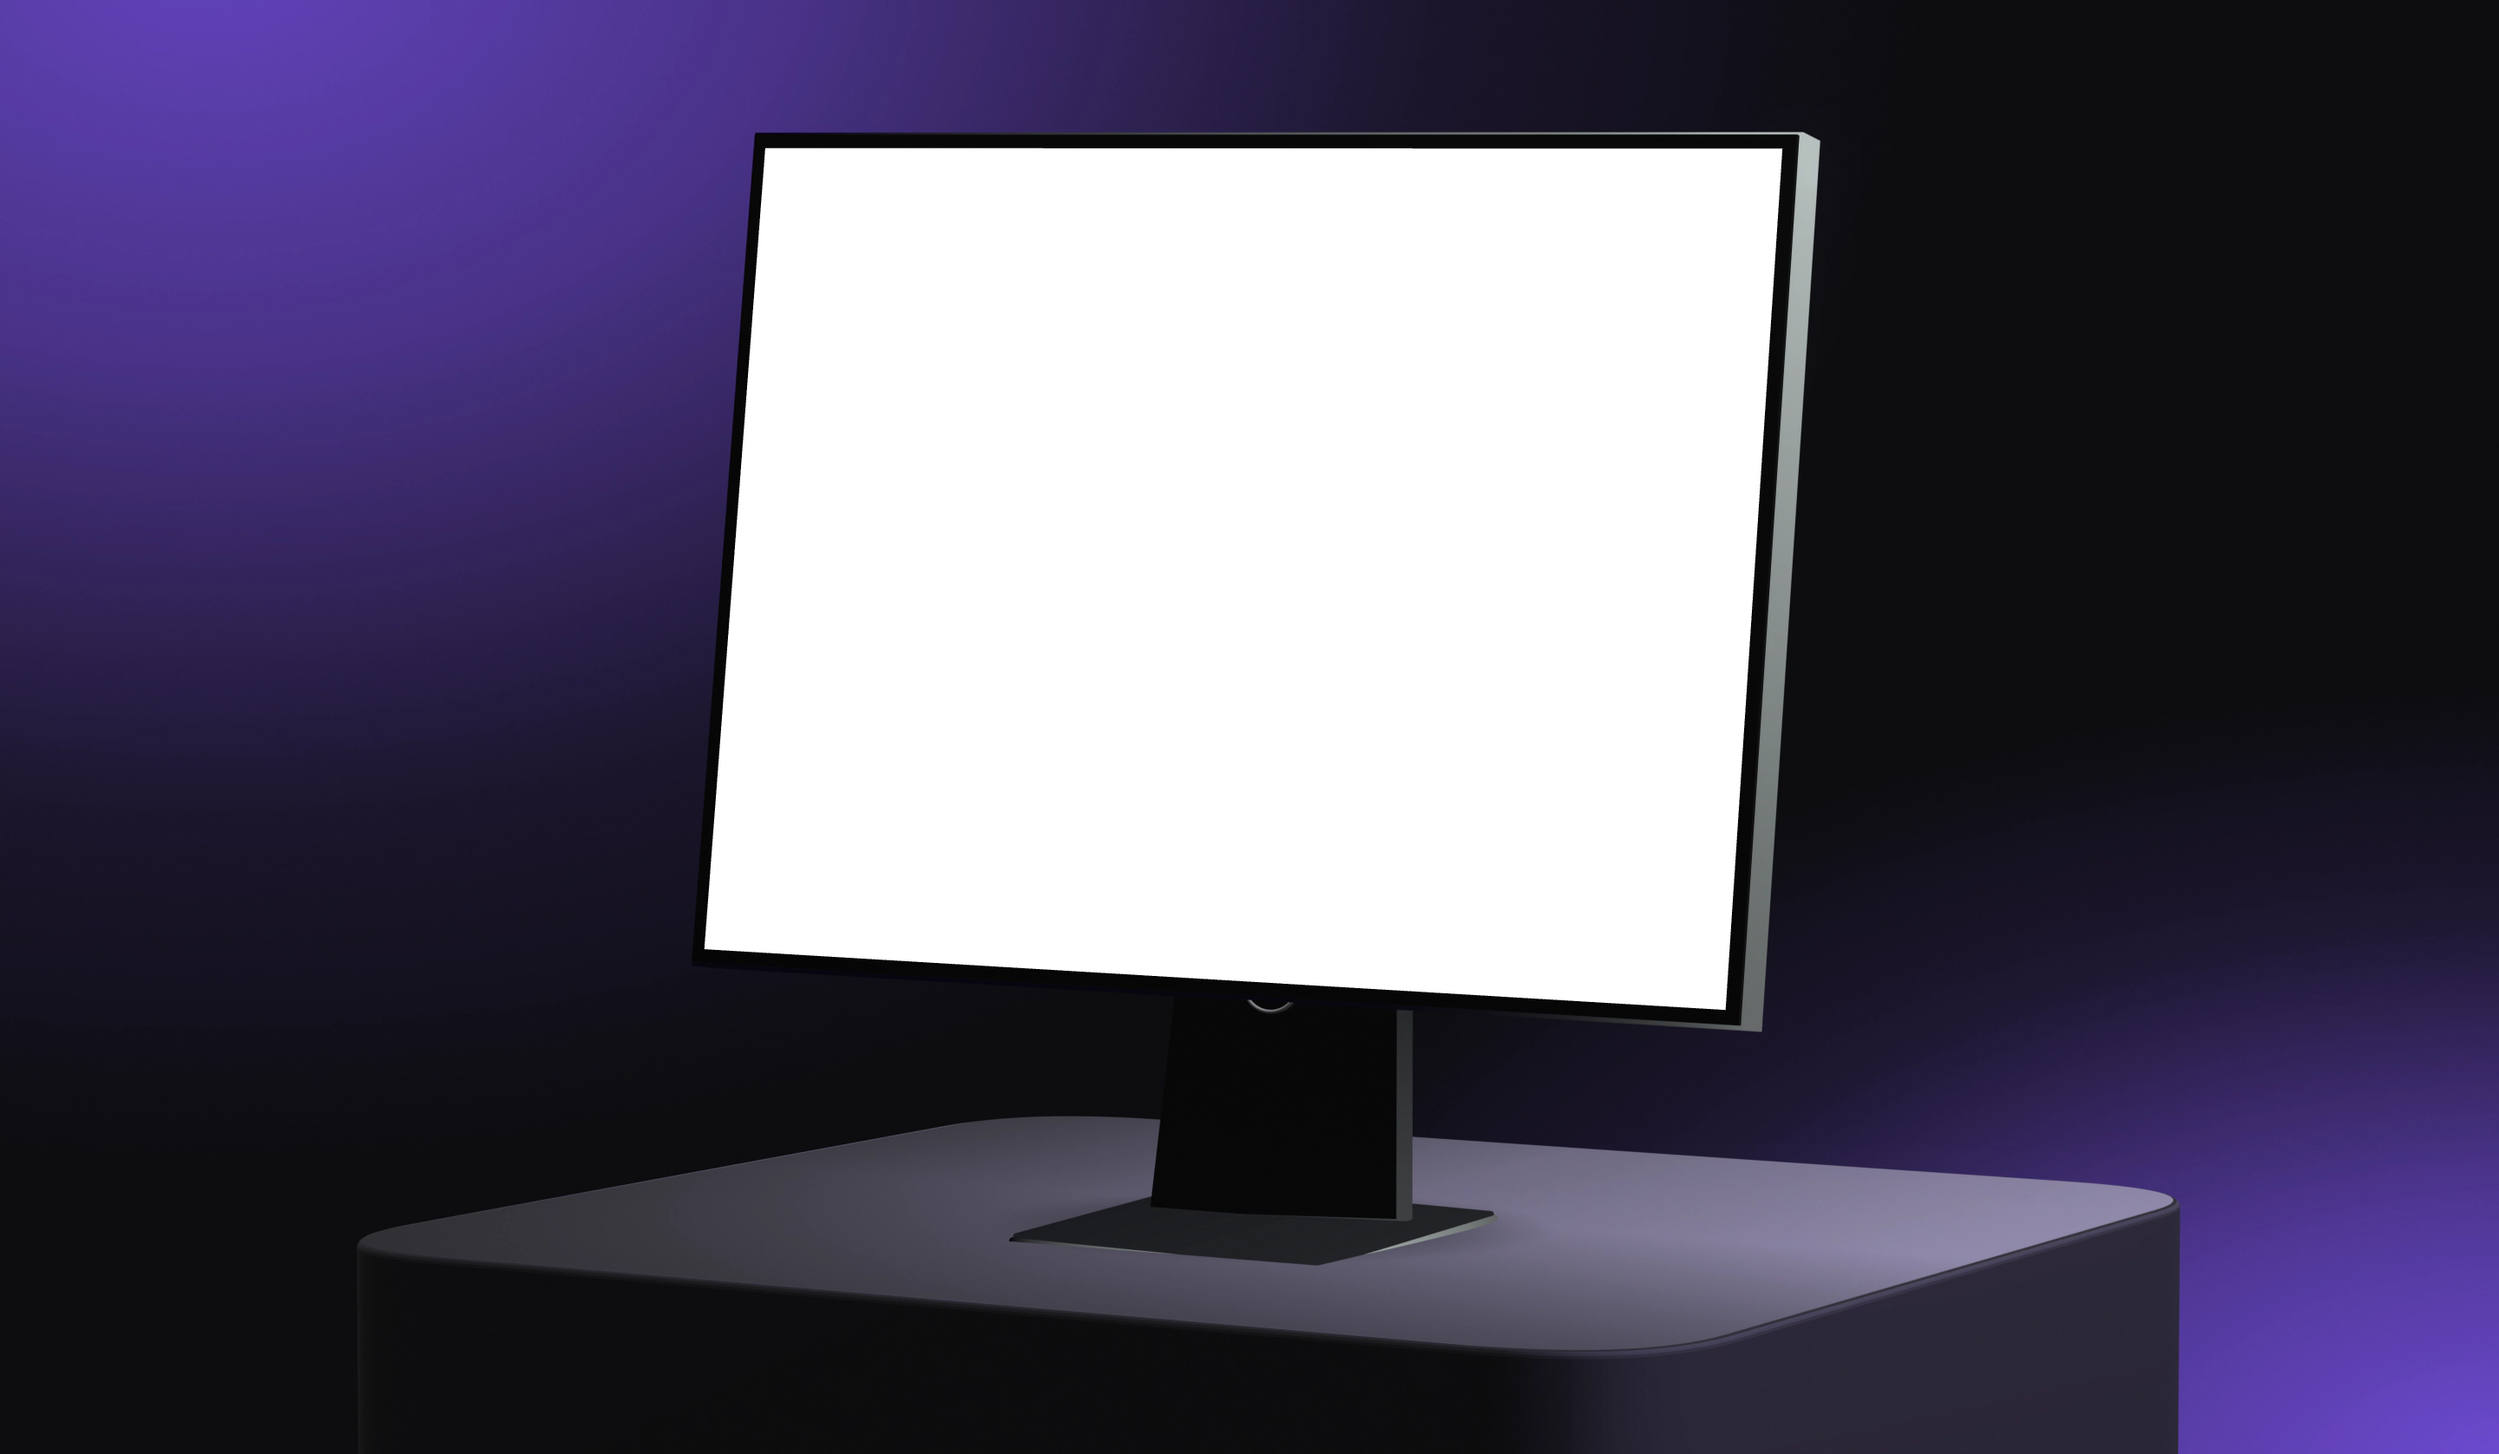
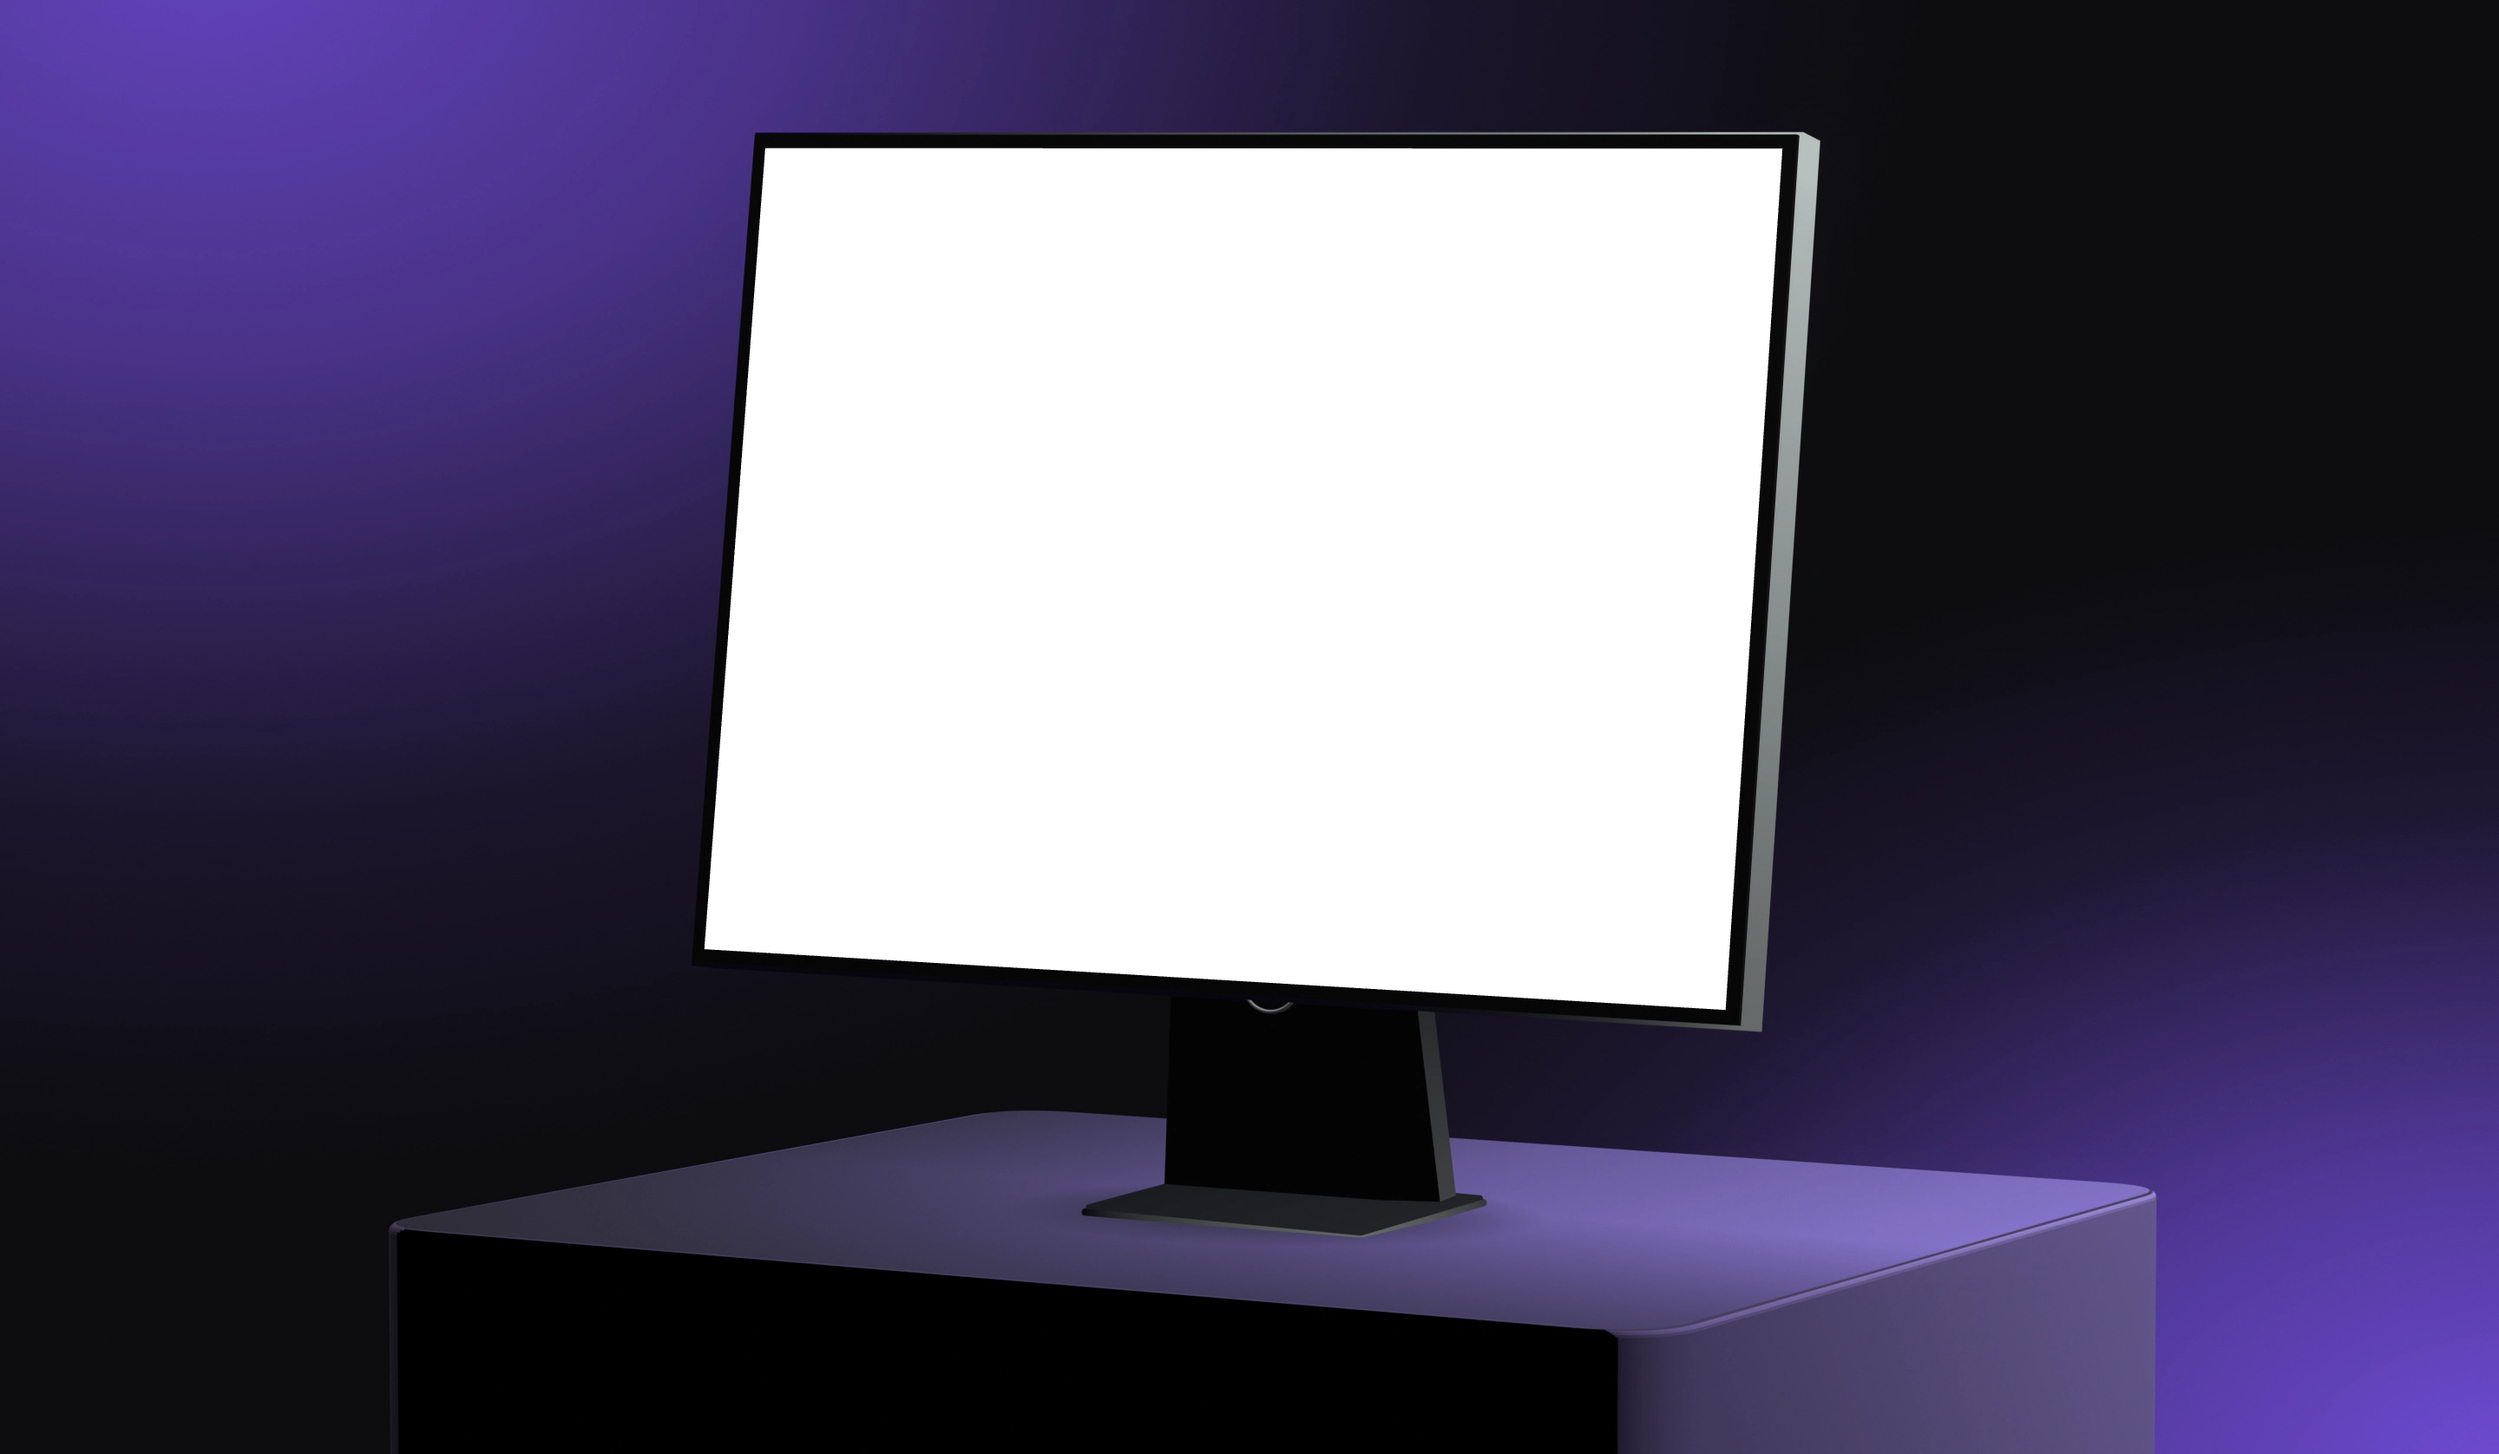
Devsign cover: plinth, stand and light fitted to the reference capture

diff --git a/scripts/cover-3d/scene.html b/scripts/cover-3d/scene.html
@@ -15,12 +15,12 @@ const M=(c,ro,me=0)=>new THREE.MeshStandardMaterial({color:c,roughness:ro,metaln
 const paint=(g,fn)=>{g.computeBoundingBox();const b=g.boundingBox,p=g.attributes.position,c=new Float32Array(p.count*3),dk=new THREE.Color('#07060f'),br=new THREE.Color(P.edgeLit||'#f4f5fb'),t=new THREE.Color();for(let i=0;i<p.count;i++){const x=(p.getX(i)-b.min.x)/(b.max.x-b.min.x),y=(p.getY(i)-b.min.y)/(b.max.y-b.min.y),z=(p.getZ(i)-b.min.z)/(b.max.z-b.min.z||1);t.copy(dk).lerp(br,Math.min(1,Math.max(0,fn(x,y,z))));c[i*3]=t.r;c[i*3+1]=t.g;c[i*3+2]=t.b}g.setAttribute('color',new THREE.BufferAttribute(c,3));return new THREE.MeshBasicMaterial({vertexColors:true})};
 const add=(g,m,p,par=rig)=>{const o=new THREE.Mesh(g,m);o.position.set(...p);o.castShadow=o.receiveShadow=true;par.add(o);return o};
 const pl=P.pl;
-{const sh2=new THREE.Shape(),w=pl[0]/2,d=pl[2]/2,c=.3;sh2.moveTo(-w+c,-d);sh2.lineTo(w-c,-d);sh2.quadraticCurveTo(w,-d,w,-d+c);sh2.lineTo(w,d-c);sh2.quadraticCurveTo(w,d,w-c,d);sh2.lineTo(-w+c,d);sh2.quadraticCurveTo(-w,d,-w,d-c);sh2.lineTo(-w,-d+c);sh2.quadraticCurveTo(-w,-d,-w+c,-d);
+{const sh2=new THREE.Shape(),w=pl[0]/2,d=pl[2]/2,c=P.pc??.3;sh2.moveTo(-w+c,-d);sh2.lineTo(w-c,-d);sh2.quadraticCurveTo(w,-d,w,-d+c);sh2.lineTo(w,d-c);sh2.quadraticCurveTo(w,d,w-c,d);sh2.lineTo(-w+c,d);sh2.quadraticCurveTo(-w,d,-w,d-c);sh2.lineTo(-w,-d+c);sh2.quadraticCurveTo(-w,-d,-w+c,-d);
 const g=new THREE.ExtrudeGeometry(sh2,{depth:pl[1],bevelEnabled:true,bevelThickness:.012,bevelSize:.012,bevelSegments:4,curveSegments:32});g.rotateX(Math.PI/2);
 const tex=(n,draw)=>{const c=document.createElement('canvas');c.width=c.height=n;draw(c.getContext('2d'),n);const t=new THREE.CanvasTexture(c);t.wrapS=t.wrapT=THREE.RepeatWrapping;return t};
 const grain=tex(1024,(x,n)=>{const d=x.createImageData(n,n);for(let i=0;i<d.data.length;i+=4){const v=118+Math.random()*20;d.data[i]=d.data[i+1]=d.data[i+2]=v;d.data[i+3]=255}x.putImageData(d,0,0)});grain.repeat.set(1.2,1.2);
 const yb=g.attributes.position,col=new Float32Array(yb.count*3),uv=g.attributes.uv;let miny=1e9,maxy=-1e9;for(let i=0;i<yb.count;i++){const y=yb.getY(i);miny=Math.min(miny,y);maxy=Math.max(maxy,y)}
-for(let i=0;i<yb.count;i++){const t=(yb.getY(i)-miny)/(maxy-miny),x=yb.getX(i)/pl[0]+.5,z=yb.getZ(i)/pl[2]+.5;const sx=Math.min(1,Math.max(0,(x-.9)/.1)),lit=sx*sx*(3-2*sx)*(.3+.7*t)*(P.sideLit||0);const v=t>.999?1:Math.pow(t,7)*(P.bevel??.85)+.12+lit;col[i*3]=col[i*3+1]=col[i*3+2]=v}g.setAttribute('color',new THREE.BufferAttribute(col,3));
+for(let i=0;i<yb.count;i++){const t=(yb.getY(i)-miny)/(maxy-miny),x=yb.getX(i)/pl[0]+.5,z=yb.getZ(i)/pl[2]+.5;const sx=Math.min(1,Math.max(0,(x-.9)/.1)),lit=sx*sx*(3-2*sx)*(.3+.7*t)*(P.sideLit||0)*(P.sideFall?Math.pow(1-z,P.sideFall):1);const v=t>.999?1:Math.pow(t,7)*(P.bevel??.85)+(P.sideBase??.12)+lit;col[i*3]=col[i*3+1]=col[i*3+2]=v}g.setAttribute('color',new THREE.BufferAttribute(col,3));
 const topm=M(P.plc,1),sidem=M(P.pls,1);
 topm.map=tex(1024,(x,n)=>{const g=x.createLinearGradient(0,0,n,0);g.addColorStop(0,`rgb(${P.tl??128},${P.tl??128},${P.tl??128})`);g.addColorStop(.5,`rgb(${P.tm??186},${P.tm??186},${P.tm??186})`);g.addColorStop(1,'rgb(255,255,255)');x.fillStyle=g;x.fillRect(0,0,n,n);const d=x.createRadialGradient(n*(P.cx??.52),n*(P.cy??.82),0,n*(P.cx??.52),n*(P.cy??.82),n*(P.cr??.42));d.addColorStop(0,`rgba(0,0,0,${P.contact??.3})`);d.addColorStop(1,'rgba(0,0,0,0)');x.fillStyle=d;x.fillRect(0,0,n,n);if(P.front){const f=x.createLinearGradient(0,0,0,n);f.addColorStop(0,`rgba(0,0,0,${P.front})`);f.addColorStop(.55,'rgba(0,0,0,0)');f.addColorStop(1,'rgba(0,0,0,0)');x.fillStyle=f;x.fillRect(0,0,n,n)}});topm.map.colorSpace=THREE.SRGBColorSpace;topm.map.repeat.set(1/pl[0],1/pl[2]);topm.map.offset.set(.5,.5);
 for(const m of [topm,sidem]){m.vertexColors=true;m.bumpMap=grain;m.bumpScale=P.bump??.1;m.envMapIntensity=0}
@@ -33,7 +33,7 @@ add(new THREE.BoxGeometry(bw,bh,.012),black,[0,0,.0],mon);
 add(new THREE.CylinderGeometry(.052,.052,.02,48),(P.body?black:M('#08080a',.4)),[P.nx,-sh*.5+.004,-.05],mon).rotation.x=Math.PI/2;
 add(new THREE.TorusGeometry(.052,.0035,10,48,Math.PI),M(P.body?'#9a9ca0':'#dfe2e5',.3,.2),[P.nx,-sh*.5+.004,-.037],mon).rotation.z=Math.PI;
 const footY=.011,fy=P.pyaw-P.yaw;
-const fg=new RB(P.fs[0],P.ft||.022,P.fs[1],6,Math.min(.01,(P.ft||.022)*.45));add(fg,paint(fg,(x,y,z)=>Math.pow(x,P.fp||1.2)*(z>.5?1:.25)),[P.foot[0],P.py+footY+.012,P.foot[1]]).rotation.y=fy;
+const fg=new RB(P.fs[0],P.ft||.022,P.fs[1],6,Math.min(.01,(P.ft||.022)*.45));add(fg,paint(fg,(x,y,z)=>Math.pow(x,P.fp||1.2)*(z>.5?1:.25)*(P.footEdge??1)),[P.foot[0],P.py+footY+.012,P.foot[1]]).rotation.y=fy;
 {const tg=new RB(P.fs[0]-.01,.012,P.fs[1]-.01,6,.005);var footTop=P.footGloss?paint(tg,(x)=>(P.footBase??.05)+P.footGloss*Math.pow(x,3)+P.footGloss*.7*Math.pow(1-x,10)):black;var footG=tg}add(footG,footTop,[P.foot[0],P.py+(P.ftop||.036),P.foot[1]]).rotation.y=fy;
 // neck joins foot to the monitor
 const nb=mon.localToWorld(new THREE.Vector3(0,-sh*.43,-.14));s.updateMatrixWorld(true);
